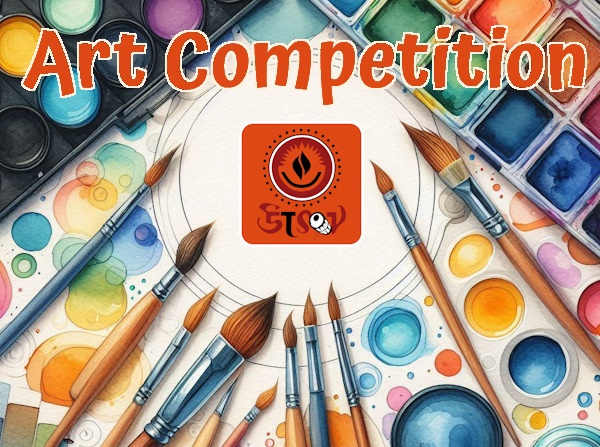
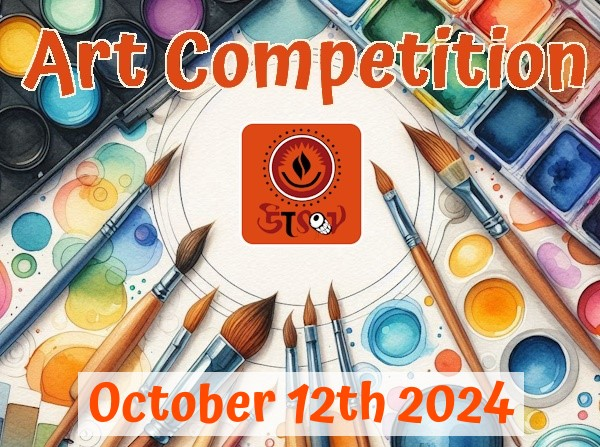
Date updates for events

Changed region(s): [[0.12, 0.8143, 0.9, 0.9888]]

diff --git a/index.html b/index.html
@@ -637,12 +637,12 @@
                             </li>
                             
                         </ul>
-                        <h4>  Details coming soon.</h4>
-                        <!-- <h4>  Best of luck to all budding artists.</h4>
-                        <p style="padding-left:10px"><span class="icon fa fa-chevron-right"></span> All registrations need to be completed by <mark>October 8th, 7:00 PM.</mark>.&nbsp;</p>
+                        <!-- <h4>  Details coming soon.</h4> -->
+                        <h4>  Best of luck to all budding artists.</h4>
+                        <p style="padding-left:10px"><span class="icon fa fa-chevron-right"></span> All registrations need to be completed by <mark>September 22nd, 7:00 PM.</mark>.&nbsp;</p>
                         <p style="padding-left:10px"><span class="icon fa fa-chevron-right"></span> Please bring your own pencils and coloring supplies. Paper will be provided.</p>
-                        <p style="padding-left:10px"><span class="icon fa fa-chevron-right"></span> Results will be declared during the cultural evening on October 21st. </p>
-                        <p style="padding-left:10px"><span class="icon fa fa-chevron-right"></span> All participants will be awarded certificates; winning entries will be awarded with trophies.</p> -->
+                        <p style="padding-left:10px"><span class="icon fa fa-chevron-right"></span> Results will be declared during the cultural evening on October 13th. </p>
+                        <p style="padding-left:10px"><span class="icon fa fa-chevron-right"></span> All participants will be awarded certificates; winning entries will be awarded with trophies.</p>
                     </p>
                     <p>&nbsp;</p>
                     <p>&nbsp;</p>
@@ -656,13 +656,13 @@
                                 </h4>
                             </li>
                         </ul>
-                        <!-- <p style="padding-left:10px"><span class="icon fa fa-chevron-right"></span> Submit your entries for Vocal, Dance, Instrumental, Reciatation etc.. Open to all kids 8 - 17 years of age. </p>
+                        <p style="padding-left:10px"><span class="icon fa fa-chevron-right"></span> Submit your entries for Vocal, Dance, Instrumental, Reciatation etc.. Open to all kids 8 - 17 years of age. </p>
                         <p style="padding-left:10px"><span class="icon fa fa-chevron-right"></span> Please submit a video link of performance during registration, or via email to <a href="mailto:activities@utsov.org" title="Utsov Event"> <span class="icon fa fa-envelope-o"></span> activities@utsov.org</a>.</p>
-                        <p style="padding-left:10px"><span class="icon fa fa-chevron-right"></span> All registrations need to be completed by <mark>October 8th, 7:00 PM.</mark>.&nbsp;</p>
-                        <p style="padding-left:10px"><span class="icon fa fa-chevron-right"></span> All selected performers/groups will be notified by October 14th.</p>
+                        <p style="padding-left:10px"><span class="icon fa fa-chevron-right"></span> All registrations need to be completed by <mark>September 22nd, 7:00 PM.</mark>.&nbsp;</p>
+                        <p style="padding-left:10px"><span class="icon fa fa-chevron-right"></span> All selected performers/groups will be notified by October 1st.</p>
                         <p style="padding-left:10px"><span class="icon fa fa-chevron-right"></span> Performance must portray Indian culture in an Indian language.</p>
-                         -->
-                         <h4>  Details coming soon.</h4>
+                        
+                         <!-- <h4>  Details coming soon.</h4> -->
                          <!-- <h4> Best of luck to the selected contestants.</h4> -->
                     </p>
                     
@@ -671,9 +671,9 @@
                         <p class="pull-right padded-section-small text-danger">
                             <span>*Accompanying parents/guardians need to have <u>paid registration</u>.&nbsp;&nbsp;</span>
                             <!-- <small class="text-danger"> All event registrations closed for 2023.</small> -->
-                            <!-- <a class="btn btn-info" href="#/EventRegistration" role="button" data-toggle="modal" data-target="#eventModal" >Event Registration
+                            <a class="btn btn-info" href="#/EventRegistration" role="button" data-toggle="modal" data-target="#eventModal" >Event Registration
                                 <span class="icon fa fa-external-link"></span>
-                            </a> -->
+                            </a>
                         </p>
                         <p>&nbsp;</p>
                     </div>
@@ -684,7 +684,7 @@
                     <p>&nbsp;</p>
                     <p>&nbsp;</p>
                     
-                    <img class="featurette-image img-responsive img-thumbnail" src="img/talent20243.jpg" data-src="img/kids3.jpg" alt="Utsov Talent Show">
+                    <img class="featurette-image img-responsive img-thumbnail" src="img/talent2024.jpg" data-src="img/kids3.jpg" alt="Utsov Talent Show">
                 </div>
             </div>
 
